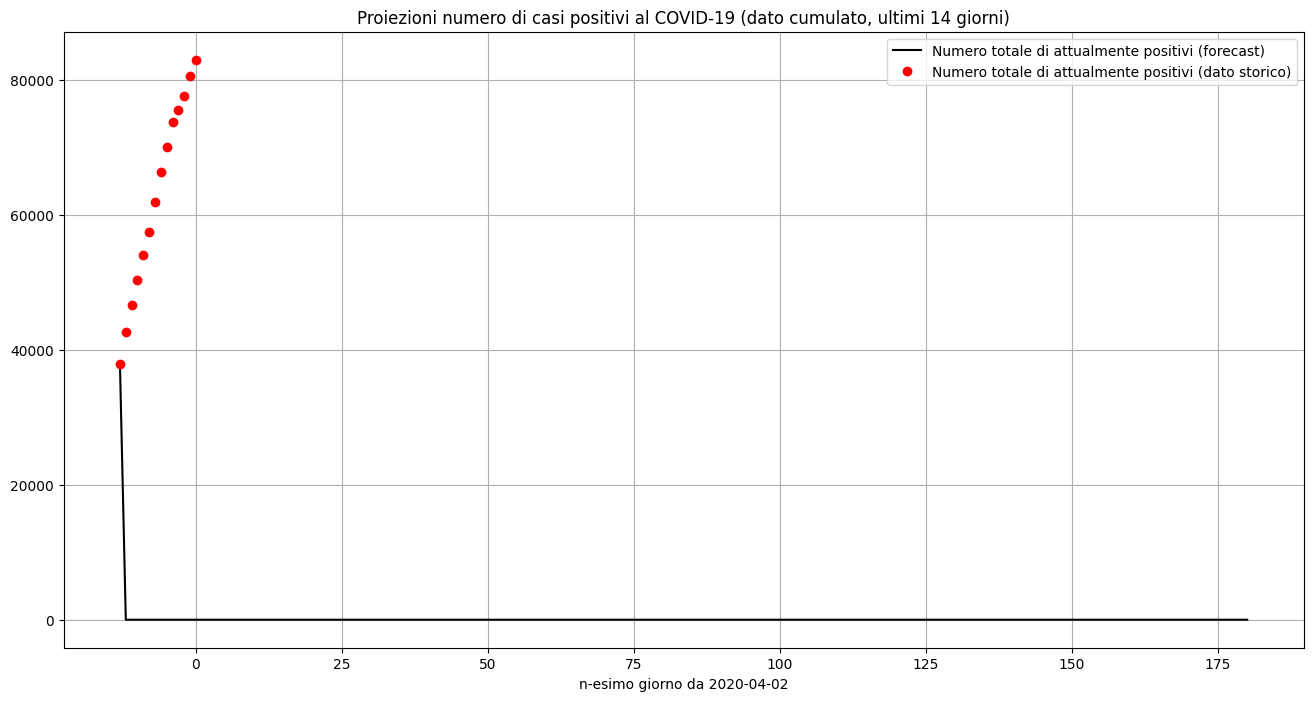
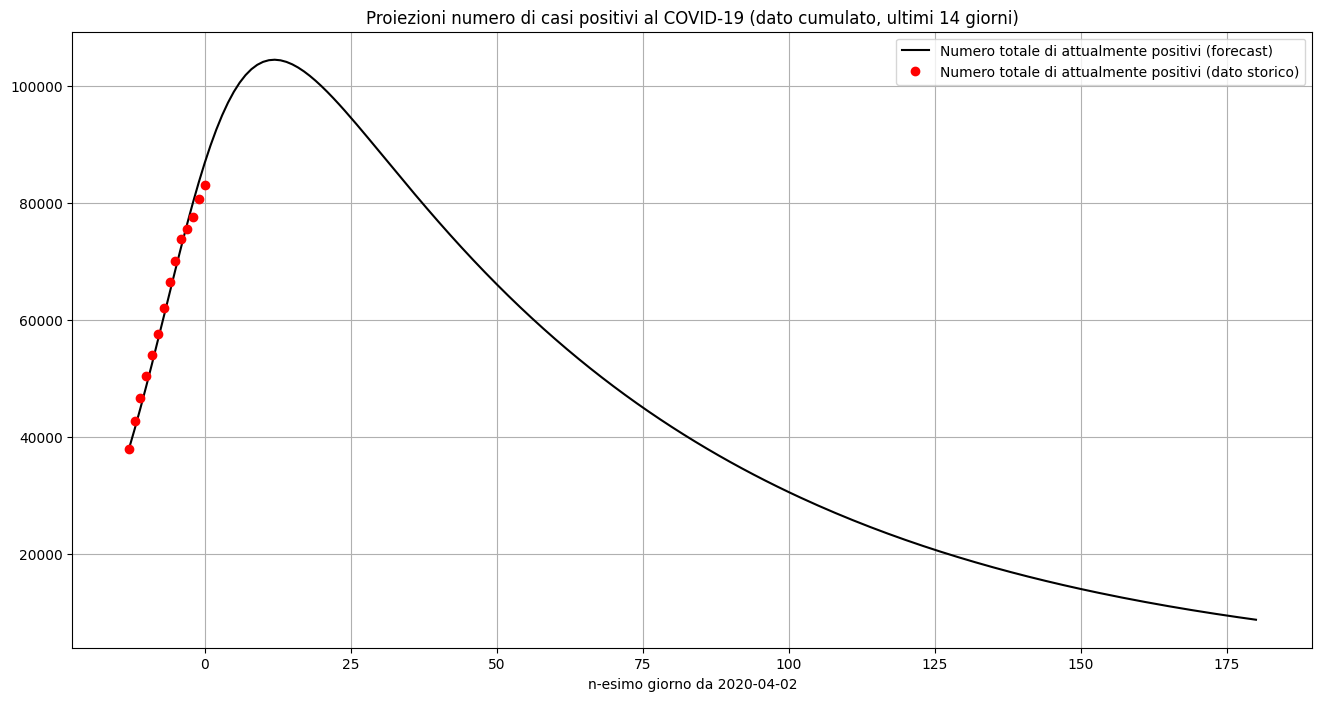
bug fix and updates

diff --git a/covid19it/pipelines/paese.py b/covid19it/pipelines/paese.py
@@ -30,9 +30,9 @@ def forecast_sir_paese(
     obj_model_sir.fit(N0=N0, array_I=array_I[-n_history:], array_R=array_R[-n_history:], n_history=None, fit_start=True)
     array_S_forecast, array_I_forecast, array_R_forecast = obj_model_sir.forecast(n_forecast)
 
-    plt.plot(array_days[n_past_days-n_history:], array_S_forecast, color="darkgreen", linewidth=3, label="Suscettibili  (proiezioni aggiornate)")
-    plt.plot(array_days[n_past_days-n_history:], array_I_forecast, color="blue", linewidth=3, label="Infetti (proiezioni    aggiornate)")
-    plt.plot(array_days[n_past_days-n_history:], array_R_forecast, color="red", linewidth=3, label="Rimossi (proiezioni     aggiornate)")
+    plt.plot(array_days[n_past_days-n_history:], array_S_forecast, color="darkgreen", linewidth=3, label="Suscettibi (proiezioni aggiornate)")
+    plt.plot(array_days[n_past_days-n_history:], array_I_forecast, color="blue", linewidth=3, label="Infetti (proiezioni aggiornate)")
+    plt.plot(array_days[n_past_days-n_history:], array_R_forecast, color="red", linewidth=3, label="Rimossi (proiezioni aggiornate)")
 
     obj_model_sir.fit(N0=N0, array_I=array_I, array_R=array_R, n_history=None, fit_start=True)
     array_S_forecast_h, array_I_forecast_h, array_R_forecast_h = obj_model_sir.forecast(n_forecast)

diff --git a/covid19it/data/provincia.py b/covid19it/data/provincia.py
@@ -40,13 +40,10 @@ class DataProvincia:
         if datetime_as_string(self.data.data.values[-1], unit='D') \
             != datetime_as_string(datetime64('today'), unit='D'):
             logger.warn("Data not updated.")
-        if self.data.shape[0] != len(unique(self.data.data.values)):
-            logger.warn("Duplicated dates.")
-        if (datetime64(self.data.data.values[-1], "D") \
-            - datetime64(self.data.data.values[0], "D")) \
-            .astype('timedelta64[D]') / timedelta64(1, 'D') + 1 \
-            != self.data.shape[0]:
-            logger.warn("Missing dates.")
+        assert int((max(self.data.data.values)-min(self.data.data.values))\
+            .astype('timedelta64[D]') / timedelta64(1, 'D')+1) \
+            != len(unique(self.data.data.values)), \
+            "Problems with dates."
         logger.debug("Data loaded.")
 
     def parse(self):

diff --git a/covid19it/models/sir.py b/covid19it/models/sir.py
@@ -49,7 +49,7 @@ class ModelSIR:
             for i in range(len(array_I))])
         self.SIR0 = self.array_SIR[0]
         self.array_steps = arange(len(array_I))
-        self.optimal_parms = fmin(self.__m, (self.SIR0[0], self.SIR0[1], self.SIR0[2], 1, 1), disp=0) # beta and gamma
+        self.optimal_parms = fmin(self.__m, (self.SIR0[0], self.SIR0[1], self.SIR0[2], 0.1, 0.1), disp=0) # beta and gamma
         logger.debug("Model trained.")
 
     def forecast(self, n_forecast):
